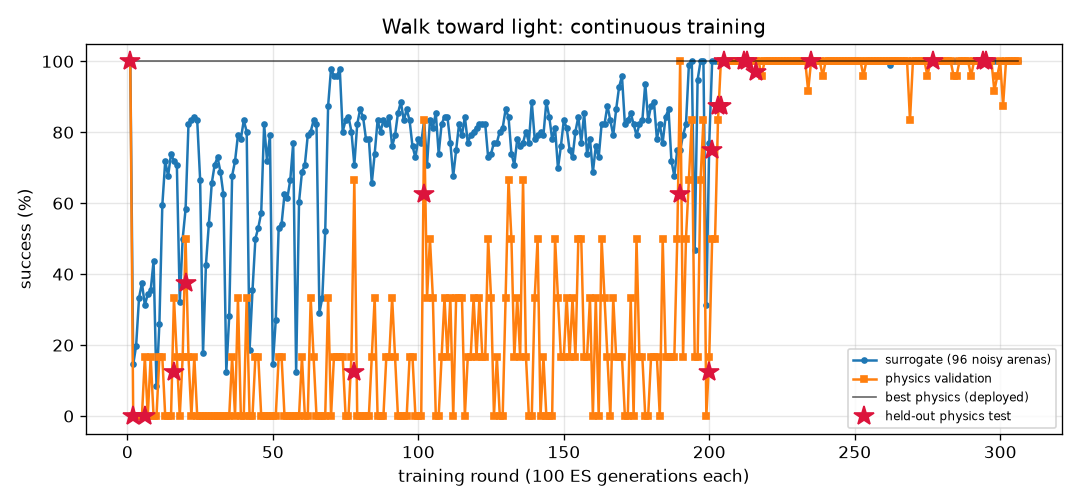
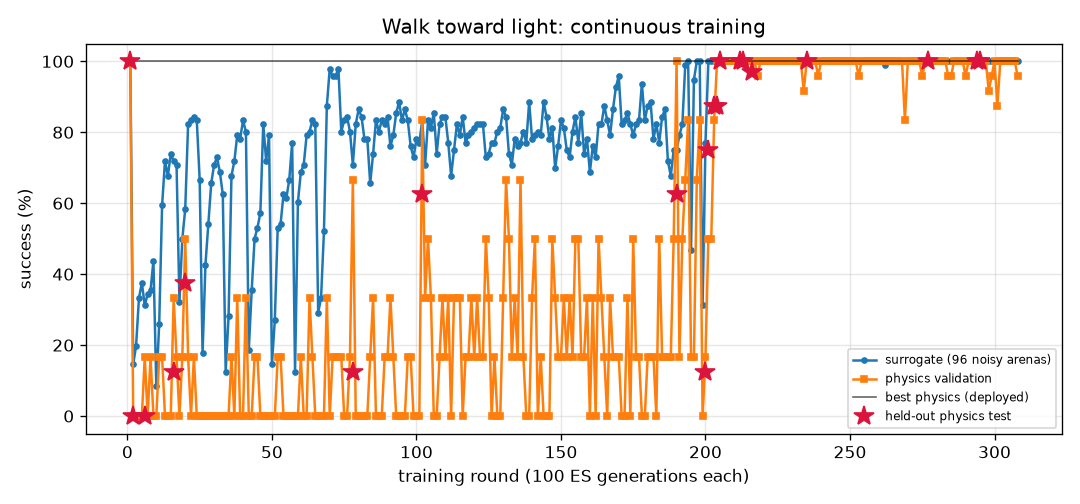
FlyLab: continuous training progress
- walk_forward: optimal, physics val 100% of 24, round 130
- turn: optimal, physics val 100% of 24, round 560
- goto: optimal, physics val 100% of 24, round 121
- odor_seek: optimal, physics val 100% of 24, round 114
- odor_avoid: optimal, physics val 100% of 24, round 551
- light_seek: optimal, physics val 100% of 24, round 308
- light_avoid: optimal, physics val 100% of 24, round 282

diff --git a/projects/09_flylab/training/light_avoid/REPORT.md b/projects/09_flylab/training/light_avoid/REPORT.md
@@ -1,14 +1,14 @@
 # Hide from light (`light_avoid`) — training report
 
-*Auto-generated by `train_brains.py`, last updated 2026-10-20T09:21:42.*
+*Auto-generated by `train_brains.py`, last updated 2026-10-20T13:15:26.*
 
 ![curve](curve.png)
 
 | | |
 |---|---|
-| rounds | 276 |
-| ES generations | 27600 |
-| physics runs | 6896 |
+| rounds | 282 |
+| ES generations | 28200 |
+| physics runs | 7040 |
 | status | **optimal** |
 | best brain | round 159: physics validation **100%** on 24 arenas, surrogate 100% |
 | held-out physics test | **100%** on 32 unseen arenas (95% CI 89%-100%) (errors: [14.4, 56.1, 58.0, 57.9, 57.5, 14.0, 14.4, 56.6, 56.8, 13.3, 14.1, 56.6, 57.6, 13.1, 57.3, 55.9, 57.2, 55.0, 55.2, 53.9, 55.2, 12.4, 53.8, 53.7, 14.1, 13.7, 55.0, 57.8, 56.2, 13.1, 52.8, 56.5]) |
@@ -17,12 +17,6 @@ Physics error per arena: mm gained away from source (> 6 without first approachi
 
 | round | level | gens | sigma | surrogate | physics val | val errors | test | note |
 |---:|---:|---:|---:|---:|---:|---|---:|---|
-| 237 | 3 | 23700 | 0.024 | 99% | 100% | [56.8, 59.2, 59.1, 56.9, 57.3, 57.1, 58.0, 14.5, 12.8, 13.4, 55.3, 57.0, 14.4, 57.8, 58.9, 56.2, 14.2, 58.4, 59.2, 14.4, 55.3, 57.5, 57.7, 55.9] |  |  |
-| 238 | 3 | 23800 | 0.025 | 100% | 100% | [57.3, 60.2, 60.0, 57.6, 57.9, 56.6, 59.0, 14.5, 47.3, 13.4, 58.8, 58.0, 14.4, 58.6, 59.9, 57.4, 14.2, 59.0, 60.1, 14.4, 55.8, 58.9, 58.9, 57.0] |  |  |
-| 239 | 3 | 23900 | 0.024 | 100% | 100% | [58.7, 61.7, 61.5, 58.5, 59.9, 58.6, 60.7, 14.5, 12.7, 13.4, 59.8, 59.6, 14.4, 56.9, 61.7, 57.2, 14.2, 60.7, 61.4, 14.4, 57.3, 59.9, 60.4, 58.2] |  | restart from best |
-| 240 | 3 | 24000 | 0.024 | 100% | 100% | [47.5, 50.7, 50.2, 48.6, 52.7, 49.1, 48.5, 14.5, 51.4, 13.2, 53.4, 52.6, 14.4, 51.9, 50.2, 49.9, 14.2, 52.6, 50.4, 14.4, 49.6, 52.6, 48.5, 52.4] |  |  |
-| 241 | 3 | 24100 | 0.024 | 100% | 100% | [51.8, 52.6, 52.6, 52.3, 47.5, 51.7, 52.7, 14.5, 12.4, 13.4, 48.9, 47.4, 14.4, 47.4, 52.4, 52.0, 14.2, 49.5, 52.0, 14.4, 51.8, 49.8, 52.9, 46.2] |  |  |
-| 242 | 3 | 24200 | 0.024 | 99% | 100% | [45.0, 45.6, 46.2, 45.6, 41.5, 45.5, 46.5, 14.5, 12.9, 13.4, 30.8, 40.7, 14.4, 40.4, 45.4, 45.0, 14.2, 42.4, 44.7, 14.4, 46.2, 33.9, 45.7, 39.9] |  |  |
 | 243 | 3 | 24300 | 0.025 | 98% | 96% | [58.3, 61.4, 61.3, 59.1, 58.9, 59.3, 60.8, 14.5, 13.0, 13.4, 10.1, 58.4, 14.4, 7.5, 61.3, 58.0, 14.2, 59.8, 61.4, 14.4, 56.4, 11.3, 60.4, 57.5] |  | restart from best |
 | 244 | 3 | 24400 | 0.024 | 100% | 100% | [57.1, 60.8, 60.6, 57.9, 59.8, 58.4, 59.5, 14.5, 55.8, 13.1, 59.4, 59.5, 14.4, 57.6, 60.7, 58.2, 14.2, 60.3, 61.0, 14.4, 57.2, 59.1, 59.3, 58.9] |  |  |
 | 245 | 3 | 24500 | 0.024 | 99% | 100% | [36.9, 38.1, 38.6, 36.9, 34.4, 36.5, 38.9, 14.5, 12.7, 13.4, 37.8, 34.1, 14.4, 38.0, 37.7, 36.8, 14.2, 35.9, 38.3, 14.4, 33.7, 37.9, 37.7, 32.4] |  |  |
@@ -57,3 +51,9 @@ Physics error per arena: mm gained away from source (> 6 without first approachi
 | 274 | 3 | 27400 | 0.024 | 100% | 100% | [41.3, 42.2, 40.9, 42.1, 45.1, 42.3, 38.6, 14.5, 9.5, 13.2, 41.7, 45.6, 14.4, 42.2, 41.4, 41.8, 14.2, 45.5, 41.7, 14.4, 44.4, 41.7, 38.4, 44.5] |  |  |
 | 275 | 3 | 27500 | 0.024 | 100% | 100% | [36.4, 36.5, 35.4, 38.2, 39.3, 37.1, 36.6, 14.5, 36.4, 13.5, 38.4, 40.0, 14.4, 37.8, 36.9, 37.7, 14.2, 38.5, 37.8, 14.4, 37.1, 39.7, 33.5, 39.2] |  | restart from best |
 | 276 | 3 | 27600 | 0.024 | 100% | 100% | [37.2, 36.1, 35.5, 37.9, 39.0, 37.4, 34.9, 14.5, 37.5, 13.3, 39.2, 38.8, 14.4, 39.4, 37.5, 37.5, 14.2, 38.1, 37.5, 14.4, 35.9, 38.8, 34.4, 38.3] |  |  |
+| 277 | 3 | 27700 | 0.024 | 100% | 100% | [42.9, 43.3, 42.3, 43.9, 45.0, 41.8, 40.9, 14.5, 42.1, 13.3, 43.8, 45.4, 14.3, 44.8, 43.7, 44.3, 14.2, 44.9, 43.5, 14.4, 42.0, 45.4, 41.9, 45.3] |  |  |
+| 278 | 3 | 27800 | 0.024 | 100% | 100% | [32.9, 27.5, 29.1, 34.3, 31.1, 33.0, 28.7, 14.5, 30.0, 13.2, 34.5, 32.5, 14.3, 31.2, 29.7, 31.4, 14.2, 30.9, 31.1, 14.4, 33.6, 34.6, 28.2, 32.3] |  |  |
+| 279 | 3 | 27900 | 0.024 | 100% | 100% | [48.1, 48.4, 48.0, 49.1, 51.3, 48.5, 45.7, 14.5, 48.9, 13.2, 50.3, 51.4, 14.4, 50.1, 48.0, 49.9, 14.2, 51.4, 48.7, 14.4, 49.2, 50.8, 46.7, 51.0] |  | restart from best |
+| 280 | 3 | 28000 | 0.024 | 100% | 100% | [46.0, 46.3, 46.3, 46.3, 49.6, 45.7, 44.0, 14.5, 48.2, 13.4, 50.9, 50.0, 14.4, 50.1, 46.0, 45.9, 14.2, 49.6, 45.9, 14.4, 46.5, 51.3, 44.4, 49.8] |  |  |
+| 281 | 3 | 28100 | 0.024 | 100% | 100% | [54.0, 58.3, 58.0, 54.6, 59.4, 54.6, 56.1, 14.5, 55.1, 13.1, 58.1, 59.2, 14.3, 56.5, 58.3, 53.9, 14.2, 59.6, 58.7, 14.4, 57.0, 58.0, 55.8, 59.0] |  |  |
+| 282 | 3 | 28200 | 0.024 | 100% | 100% | [53.0, 56.7, 56.3, 54.4, 58.2, 53.6, 54.7, 14.5, 47.9, 13.5, 57.1, 58.1, 14.4, 56.7, 56.6, 52.9, 14.2, 58.3, 57.3, 14.4, 55.9, 56.8, 54.8, 57.8] |  |  |

diff --git a/projects/09_flylab/training/odor_avoid/REPORT.md b/projects/09_flylab/training/odor_avoid/REPORT.md
@@ -1,14 +1,14 @@
 # Escape a bad smell (`odor_avoid`) — training report
 
-*Auto-generated by `train_brains.py`, last updated 2026-10-20T12:12:38.*
+*Auto-generated by `train_brains.py`, last updated 2026-10-20T12:43:09.*
 
 ![curve](curve.png)
 
 | | |
 |---|---|
-| rounds | 548 |
-| ES generations | 54800 |
-| physics runs | 10458 |
+| rounds | 551 |
+| ES generations | 55100 |
+| physics runs | 10530 |
 | status | **optimal** |
 | best brain | round 373: physics validation **100%** on 24 arenas, surrogate 97% |
 | held-out physics test | **97%** on 32 unseen arenas (95% CI 84%-99%) (errors: [62.0, 57.4, 62.6, 61.9, 59.0, 61.6, 56.5, 60.7, 31.7, 60.9, 63.1, 57.1, 61.1, 62.1, 61.5, 60.2, 62.2, 55.2, 62.1, 54.2, 61.3, 62.0, 58.0, 61.9, 59.8, 56.5, 56.3, 56.4, 56.3, 57.7, 61.9, 32.4]) |
@@ -17,9 +17,6 @@ Physics error per arena: mm gained away from source (> 6 without first approachi
 
 | round | level | gens | sigma | surrogate | physics val | val errors | test | note |
 |---:|---:|---:|---:|---:|---:|---|---:|---|
-| 509 | 3 | 50900 | 0.026 | 96% | 100% | [62.1, 60.2, 55.8, 60.2, 62.2, 62.2, 62.1, 44.2, 62.0, 61.3, 62.1, 62.3, 55.2, 55.9, 51.7, 61.7, 62.6, 61.5, 55.0, 55.2, 62.1, 62.8, 59.8, 61.9] |  | restart from best |
-| 510 | 3 | 51000 | 0.026 | 95% | 100% | [62.7, 60.9, 57.0, 61.5, 42.3, 59.6, 61.0, 35.8, 60.5, 28.2, 23.0, 61.2, 52.0, 55.4, 41.4, 59.1, 61.1, 48.0, 50.2, 56.2, 61.3, 37.5, 61.1, 59.0] |  |  |
-| 511 | 3 | 51100 | 0.027 | 97% | 100% | [63.5, 61.2, 58.1, 58.6, 61.1, 62.4, 61.6, 31.4, 60.8, 61.5, 61.5, 61.7, 54.6, 58.4, 46.3, 62.0, 61.4, 62.2, 54.8, 57.7, 61.5, 53.6, 58.4, 49.3] |  |  |
 | 512 | 3 | 51200 | 0.026 | 96% | 96% | [62.8, 60.9, 55.2, 59.2, 59.9, 60.6, 61.4, 32.4, 60.5, 48.6, 18.6, 61.6, 50.3, 55.4, 35.1, 61.4, 61.2, 62.1, 51.5, 58.4, 61.4, 59.0, 61.3, 61.3] |  |  |
 | 513 | 3 | 51300 | 0.026 | 95% | 100% | [62.9, 54.7, 56.3, 58.0, 62.4, 61.2, 61.4, 56.2, 60.1, 59.8, 62.0, 61.8, 55.0, 57.0, 45.0, 61.4, 61.6, 61.0, 55.2, 54.0, 61.6, 60.4, 57.4, 58.5] |  | restart from best |
 | 514 | 3 | 51400 | 0.026 | 95% | 96% | [63.3, 61.4, 56.3, 56.7, 60.9, 61.9, 61.1, 56.4, 60.4, 57.7, 59.4, 61.8, 53.3, 54.7, 46.3, 61.9, 62.1, 62.0, 55.0, 58.0, 62.1, 58.1, 58.6, 62.8] |  |  |
@@ -57,3 +54,6 @@ Physics error per arena: mm gained away from source (> 6 without first approachi
 | 546 | 3 | 54600 | 0.026 | 97% | 96% | [63.2, 58.0, 56.0, 59.3, 62.1, 60.4, 61.8, 15.0, 60.4, 58.5, 62.1, 62.1, 54.4, 56.0, 45.0, 61.7, 62.3, 61.3, 55.0, 56.2, 62.0, 59.7, 57.9, 54.9] |  |  |
 | 547 | 3 | 54700 | 0.026 | 94% | 96% | [59.8, 56.5, 55.8, 56.5, 60.0, 60.7, 60.7, 24.4, 60.9, 36.8, 18.5, 60.6, 50.2, 55.4, 38.4, 59.3, 60.9, 60.4, 52.6, 59.1, 61.0, 46.8, 58.6, 56.7] |  |  |
 | 548 | 3 | 54800 | 0.028 | 95% | 96% | [60.8, 60.3, 56.3, 57.0, 46.6, 52.7, 61.5, 57.5, 61.5, 30.6, 13.9, 60.8, 50.6, 55.5, 15.6, 57.2, 61.2, 49.0, 49.6, 59.4, 61.2, 59.2, 60.3, 58.4] |  |  |
+| 549 | 3 | 54900 | 0.027 | 94% | 96% | [60.5, 54.9, 56.2, 58.8, 59.7, 59.0, 60.6, 56.3, 60.6, 58.8, 34.8, 60.8, 49.2, 56.0, 9.6, 57.0, 61.0, 58.5, 53.3, 54.4, 60.9, 59.2, 58.9, 58.3] |  | restart from best |
+| 550 | 3 | 55000 | 0.026 | 93% | 100% | [62.3, 56.9, 55.7, 60.9, 60.7, 59.7, 60.3, 62.1, 61.2, 60.0, 57.1, 61.4, 47.2, 54.4, 39.7, 59.3, 61.3, 50.3, 50.4, 57.5, 61.2, 61.8, 60.8, 62.2] |  |  |
+| 551 | 3 | 55100 | 0.028 | 97% | 100% | [61.2, 55.9, 56.1, 59.9, 61.0, 61.1, 60.8, 55.1, 60.6, 55.2, 60.8, 61.1, 54.4, 56.2, 45.0, 59.3, 61.1, 60.7, 53.9, 56.2, 61.2, 58.5, 59.1, 51.9] |  |  |

diff --git a/projects/09_flylab/training/light_seek/REPORT.md b/projects/09_flylab/training/light_seek/REPORT.md
@@ -1,14 +1,14 @@
 # Walk toward light (`light_seek`) — training report
 
-*Auto-generated by `train_brains.py`, last updated 2026-10-20T10:10:14.*
+*Auto-generated by `train_brains.py`, last updated 2026-10-20T13:15:48.*
 
 ![curve](curve.png)
 
 | | |
 |---|---|
-| rounds | 306 |
-| ES generations | 30600 |
-| physics runs | 4192 |
+| rounds | 308 |
+| ES generations | 30800 |
+| physics runs | 4240 |
 | status | **optimal** |
 | best brain | round 295: physics validation **100%** on 24 arenas, surrogate 100% |
 | held-out physics test | **100%** on 32 unseen arenas (95% CI 89%-100%) (errors: [0.58, 0.62, 0.61, 0.63, 0.65, 0.65, 0.73, 0.55, 0.64, 0.59, 0.59, 0.58, 0.69, 0.61, 0.59, 0.6, 0.6, 0.63, 0.59, 0.64, 0.61, 1.11, 0.62, 0.58, 0.58, 0.58, 0.67, 0.63, 0.58, 0.66, 0.67, 0.59]) |
@@ -17,8 +17,6 @@ Physics error per arena: mm from target at the end (< 1.5 and standing still = s
 
 | round | level | gens | sigma | surrogate | physics val | val errors | test | note |
 |---:|---:|---:|---:|---:|---:|---|---:|---|
-| 267 | 3 | 26700 | 0.024 | 100% | 100% | [1.31, 0.59, 0.58, 0.67, 0.53, 0.71, 0.76, 0.54, 0.89, 0.62, 0.59, 0.63, 0.52, 0.69, 0.83, 0.64, 0.53, 0.73, 0.66, 0.62, 0.71, 0.58, 0.57, 0.64] |  | restart from best |
-| 268 | 3 | 26800 | 0.024 | 100% | 100% | [0.91, 0.5, 0.49, 0.64, 0.51, 0.45, 0.45, 0.51, 0.91, 0.52, 0.98, 0.46, 0.56, 0.54, 0.47, 0.55, 0.49, 0.46, 0.51, 0.45, 0.48, 0.53, 0.54, 0.62] |  |  |
 | 269 | 3 | 26900 | 0.024 | 100% | 83% | [0.52, 0.56, 0.59, 0.91, 0.51, 0.57, 1.71, 0.5, 0.57, 0.53, 1.0, 0.45, 0.56, 2.59, 1.47, 0.49, 0.64, 0.97, 0.84, 1.97, 0.55, 0.55, 0.56, 1.04] |  |  |
 | 270 | 3 | 27000 | 0.024 | 100% | 100% | [0.45, 0.55, 0.56, 0.51, 0.58, 0.84, 0.57, 0.49, 0.97, 0.54, 0.5, 0.59, 0.45, 0.54, 0.57, 0.52, 0.5, 0.55, 0.51, 0.65, 0.54, 0.53, 0.59, 0.48] |  |  |
 | 271 | 3 | 27100 | 0.024 | 100% | 100% | [0.62, 0.44, 0.52, 0.49, 0.47, 0.45, 0.5, 0.61, 0.44, 0.48, 0.43, 0.53, 0.44, 0.55, 0.48, 0.94, 0.87, 0.57, 0.43, 0.44, 0.5, 0.52, 0.47, 0.46] |  | restart from best |
@@ -57,3 +55,5 @@ Physics error per arena: mm from target at the end (< 1.5 and standing still = s
 | 304 | 3 | 30400 | 0.024 | 100% | 100% | [0.5, 0.55, 0.56, 0.57, 0.63, 0.93, 0.53, 0.55, 0.56, 0.65, 0.61, 0.54, 0.66, 0.58, 0.51, 0.54, 0.56, 0.54, 0.54, 0.62, 0.56, 0.53, 0.53, 0.94] |  |  |
 | 305 | 3 | 30500 | 0.024 | 100% | 100% | [0.65, 0.61, 0.56, 0.79, 0.73, 0.73, 0.62, 0.69, 0.93, 0.81, 0.52, 0.72, 0.78, 0.64, 1.01, 0.76, 0.48, 0.64, 0.55, 0.61, 0.67, 0.65, 0.67, 0.56] |  |  |
 | 306 | 3 | 30600 | 0.024 | 100% | 100% | [0.6, 0.6, 0.64, 0.6, 0.56, 0.67, 0.67, 0.63, 0.59, 0.65, 0.65, 0.71, 0.59, 0.61, 0.62, 0.67, 0.61, 0.56, 0.64, 0.58, 0.59, 0.57, 0.6, 0.64] |  |  |
+| 307 | 3 | 30700 | 0.024 | 100% | 100% | [0.51, 0.51, 0.67, 0.45, 0.52, 0.6, 0.47, 0.52, 0.66, 0.49, 0.46, 0.53, 0.58, 0.63, 0.58, 0.5, 0.49, 0.52, 0.5, 0.48, 0.54, 0.47, 0.52, 0.46] |  | restart from best |
+| 308 | 3 | 30800 | 0.024 | 100% | 96% | [1.05, 0.65, 0.63, 0.65, 0.66, 0.6, 0.55, 1.74, 0.58, 0.76, 0.59, 1.04, 0.62, 1.4, 0.71, 0.59, 0.79, 0.63, 0.75, 1.27, 0.71, 0.69, 0.57, 0.78] |  |  |

diff --git a/projects/09_flylab/training/TRAINING.md b/projects/09_flylab/training/TRAINING.md
@@ -1,6 +1,6 @@
 # FlyLab brains — continuous training log
 
-*Auto-generated by `train_brains.py`, last updated 2026-10-20T12:17:07.*
+*Auto-generated by `train_brains.py`, last updated 2026-10-20T13:15:48.*
 
 Every skill has its own brain and its own training process: surrogate ES rounds, physics validation in MuJoCo, keep-the-best selection, and a held-out physics test that is never used for selection. See each skill's report for its full round-by-round history. Mastery is progressive: passing a level (100% physics validation, >=95% surrogate) doubles the validation and test arena sets; a brain is **optimal** once it holds up at level 3 (>=95% of 24 validation arenas) AND scores >=90% on the 32 held-out test arenas. Test columns show 95% Wilson confidence intervals.
 
@@ -10,6 +10,6 @@ Every skill has its own brain and its own training process: surrogate ES rounds,
 | [Turn in place](turn/REPORT.md) | 560 | 56000 | 13686 | 100% | 100% of 24 | 97% of 32 (CI 84-99%) | **optimal** |
 | [Go to a location](goto/REPORT.md) | 121 | 12100 | 2790 | 100% | 100% of 24 | 100% of 32 (CI 89-100%) | **optimal** |
 | [Find food by smell](odor_seek/REPORT.md) | 114 | 11400 | 2102 | 100% | 100% of 24 | 100% of 32 (CI 89-100%) | **optimal** |
-| [Escape a bad smell](odor_avoid/REPORT.md) | 548 | 54800 | 10458 | 97% | 100% of 24 | 97% of 32 (CI 84-99%) | **optimal** |
-| [Walk toward light](light_seek/REPORT.md) | 306 | 30600 | 4192 | 100% | 100% of 24 | 100% of 32 (CI 89-100%) | **optimal** |
-| [Hide from light](light_avoid/REPORT.md) | 276 | 27600 | 6896 | 100% | 100% of 24 | 100% of 32 (CI 89-100%) | **optimal** |
+| [Escape a bad smell](odor_avoid/REPORT.md) | 551 | 55100 | 10530 | 97% | 100% of 24 | 97% of 32 (CI 84-99%) | **optimal** |
+| [Walk toward light](light_seek/REPORT.md) | 308 | 30800 | 4240 | 100% | 100% of 24 | 100% of 32 (CI 89-100%) | **optimal** |
+| [Hide from light](light_avoid/REPORT.md) | 282 | 28200 | 7040 | 100% | 100% of 24 | 100% of 32 (CI 89-100%) | **optimal** |
